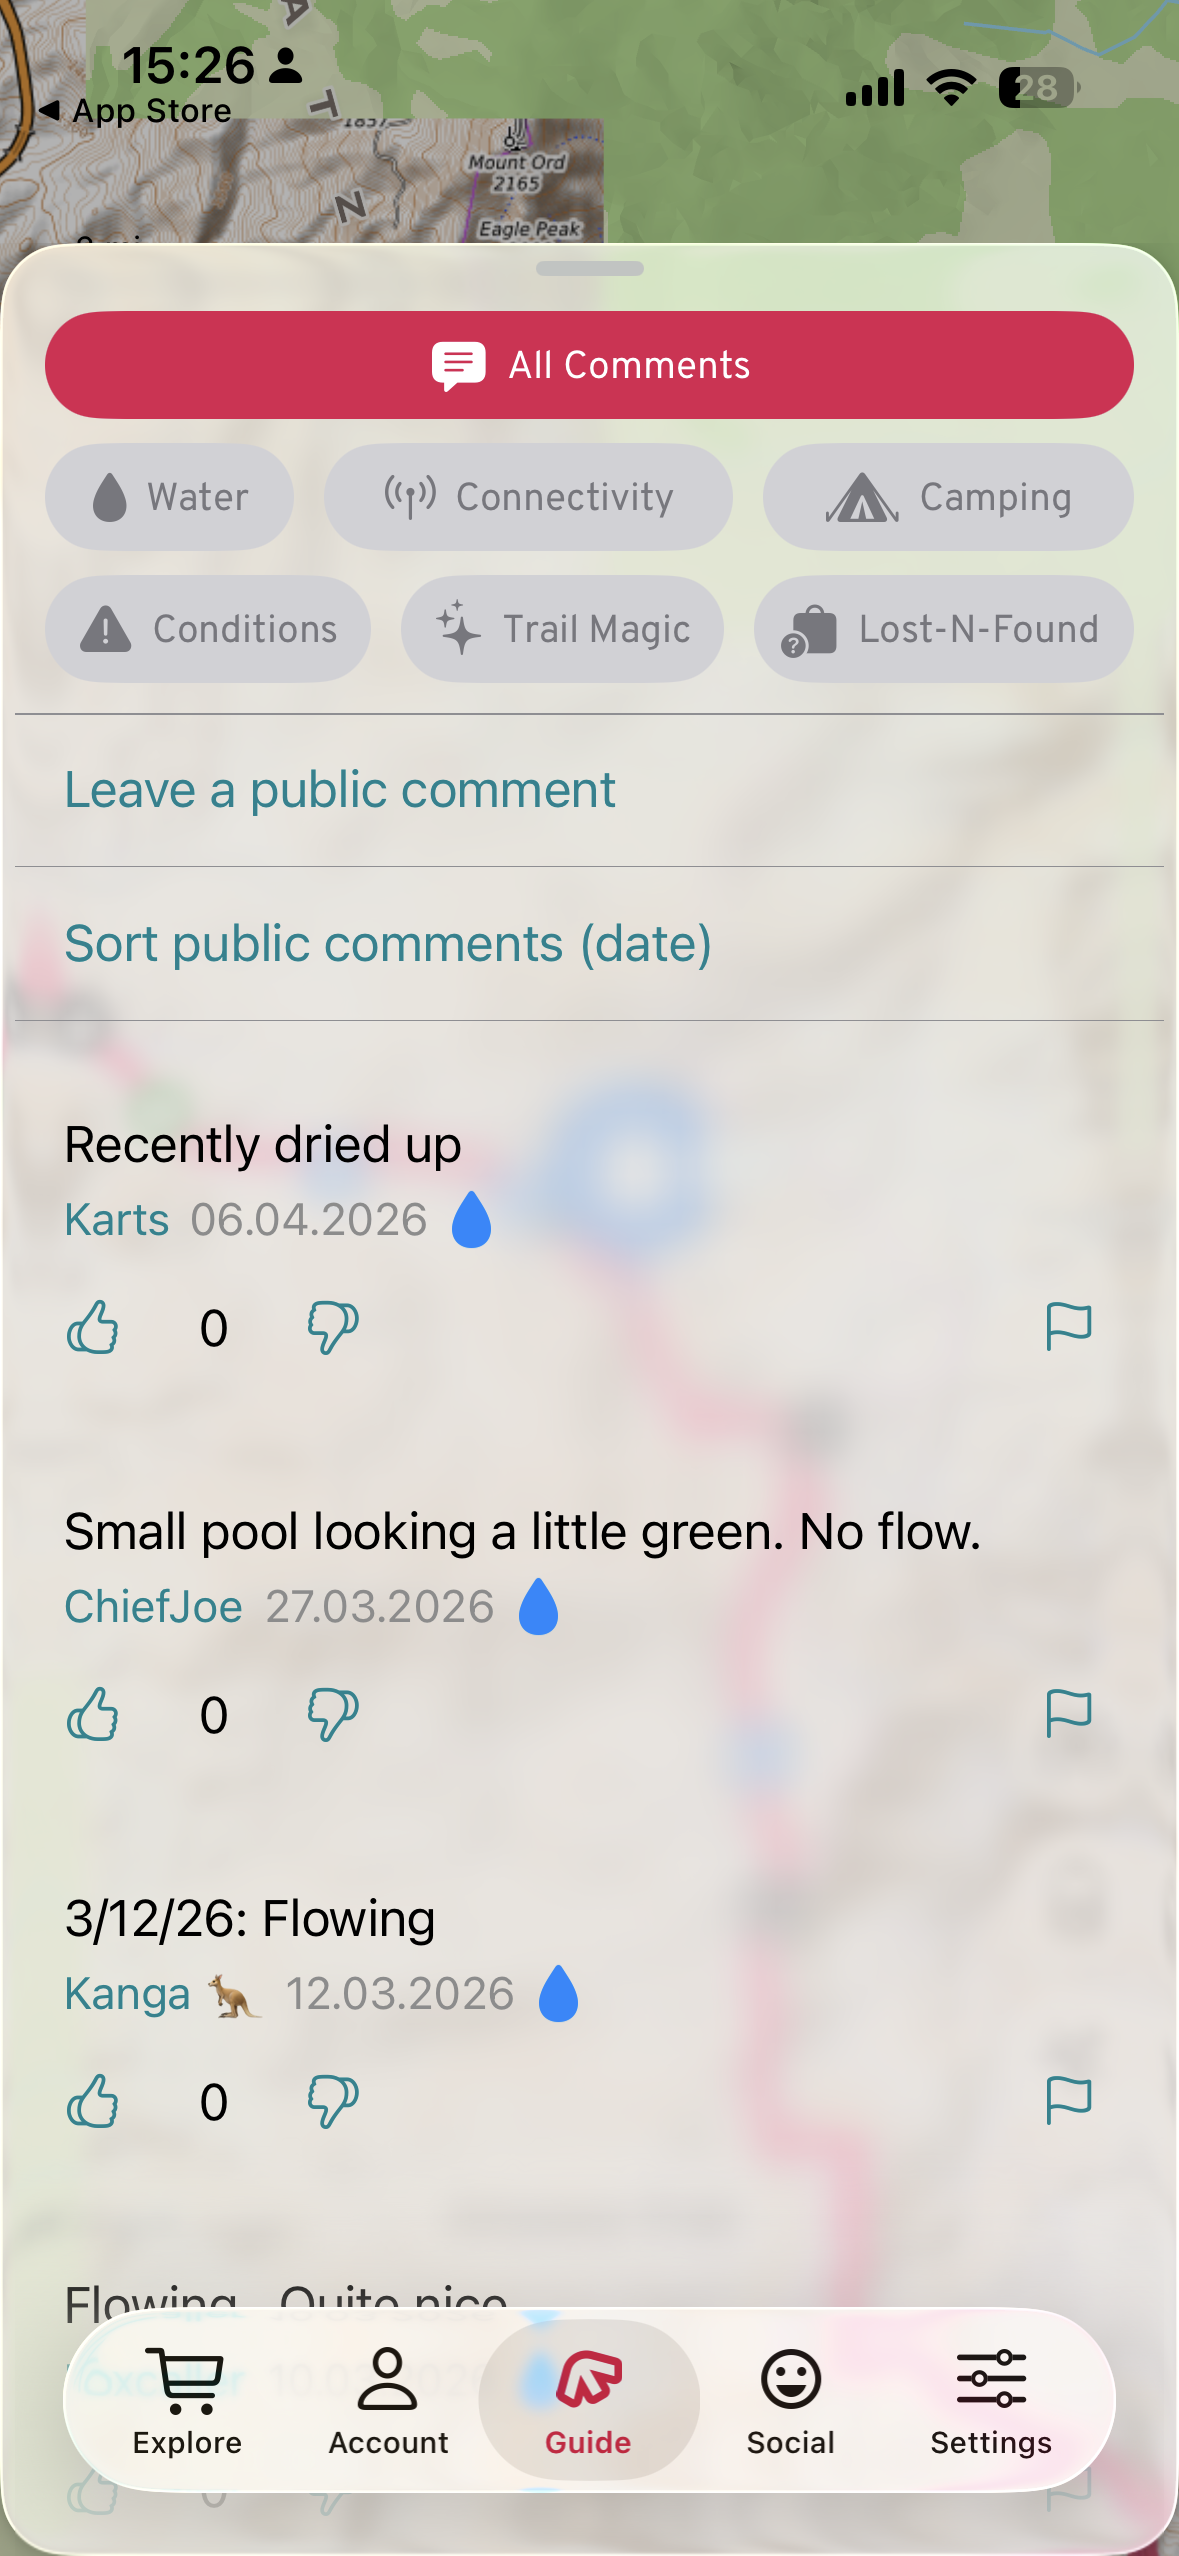
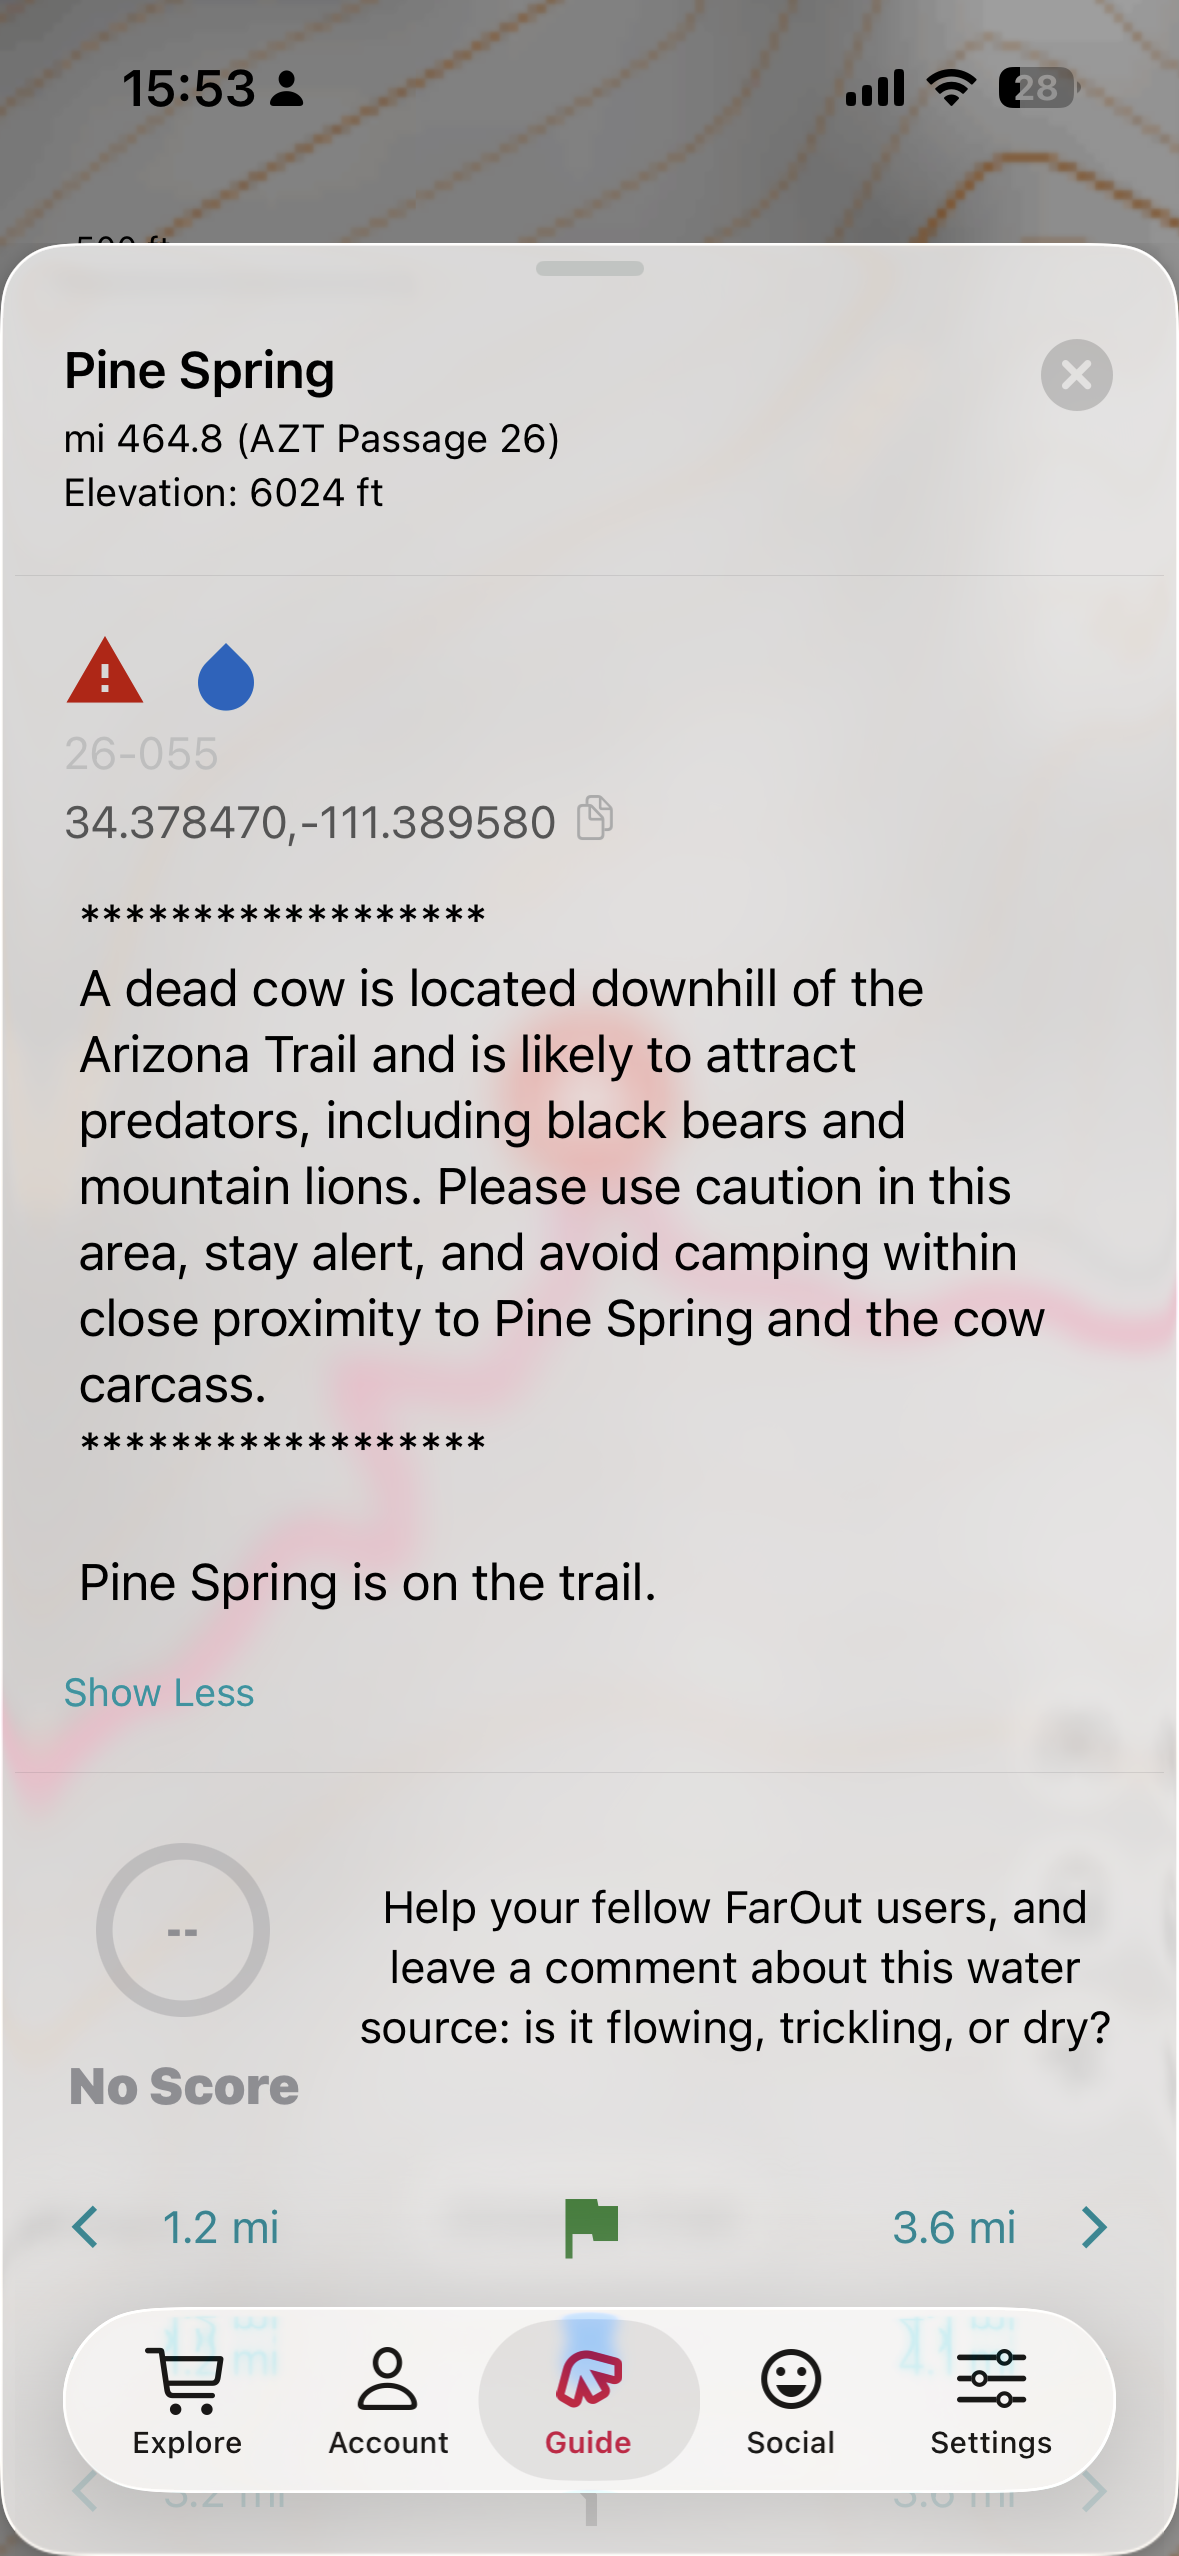
Drop Dosla mi voda slide from Prihody

diff --git a/src/data/blocks.ts b/src/data/blocks.ts
@@ -488,18 +488,6 @@ export const blocks: Block[] = [
         subtitle: "Co si pamatuju nejvíc",
       },
       {
-        id: "prihody-2",
-        layout: "text",
-        title: "Došla mi voda",
-        body: "[Detail doplním před přednáškou — kde, kolik chybělo, jak jsem to řešil.]",
-        media: [
-          {
-            kind: "instagram",
-            src: "https://www.instagram.com/p/DYQobXVi4Ao/",
-          },
-        ],
-      },
-      {
         id: "prihody-3",
         layout: "text",
         title: "Noc na dně Grand Canyonu",
